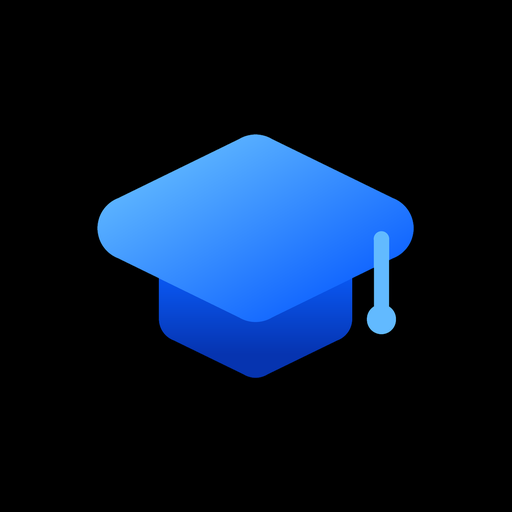
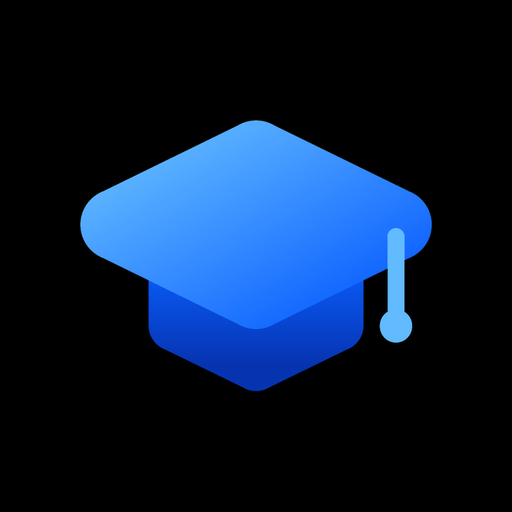
Icona Studio: versione adattiva più grande, come quella di Filippo
Claude-Session: https://claude.ai/code/session_0147b5EQRQXjB3xsosYtwXZE

Changed region(s): [[0.1562, 0.2188, 0.8438, 0.7812]]

diff --git a/sw.js b/sw.js
@@ -1,7 +1,7 @@
 /* Study: service worker.
    Pagina: si apre subito dalla copia salvata e intanto controllo se ce n'è una nuova (se c'è, la pagina viene avvisata).
    Il resto (icone, font, manifest): prima la copia salvata. Cambiando V si rifà tutto. */
-const V='cursus-v8';
+const V='cursus-v9';
 const FILES=['./','index.html','manifest.webmanifest','icons/icon-192.png','icons/icon-512.png','icons/logo-512.png','fonts/inter-latin-wght.woff2','fonts/jost-latin-wght.woff2'];
 const ROOT=self.registration.scope,IDX=new URL('index.html',ROOT).href;
 
